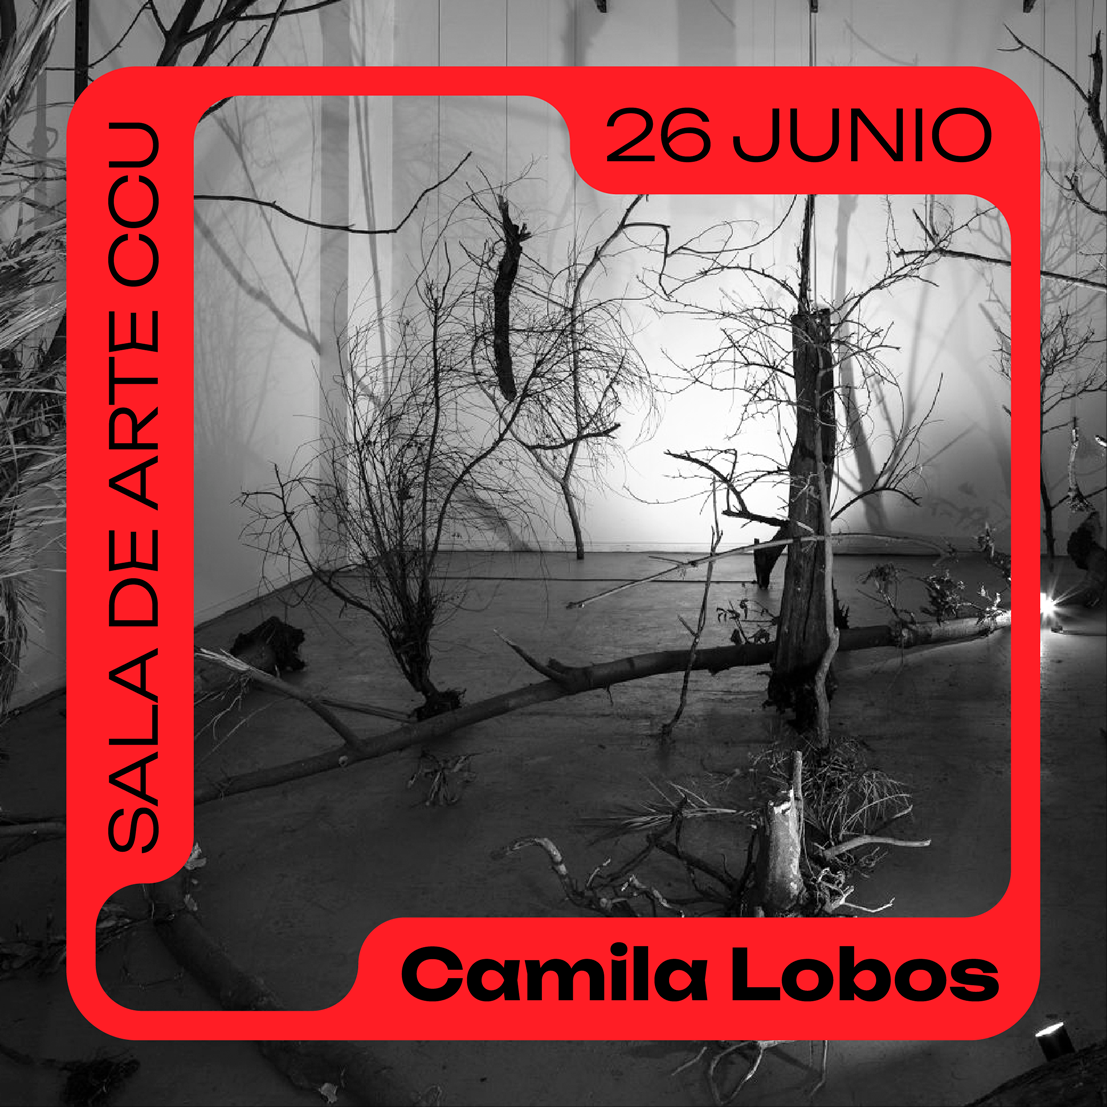
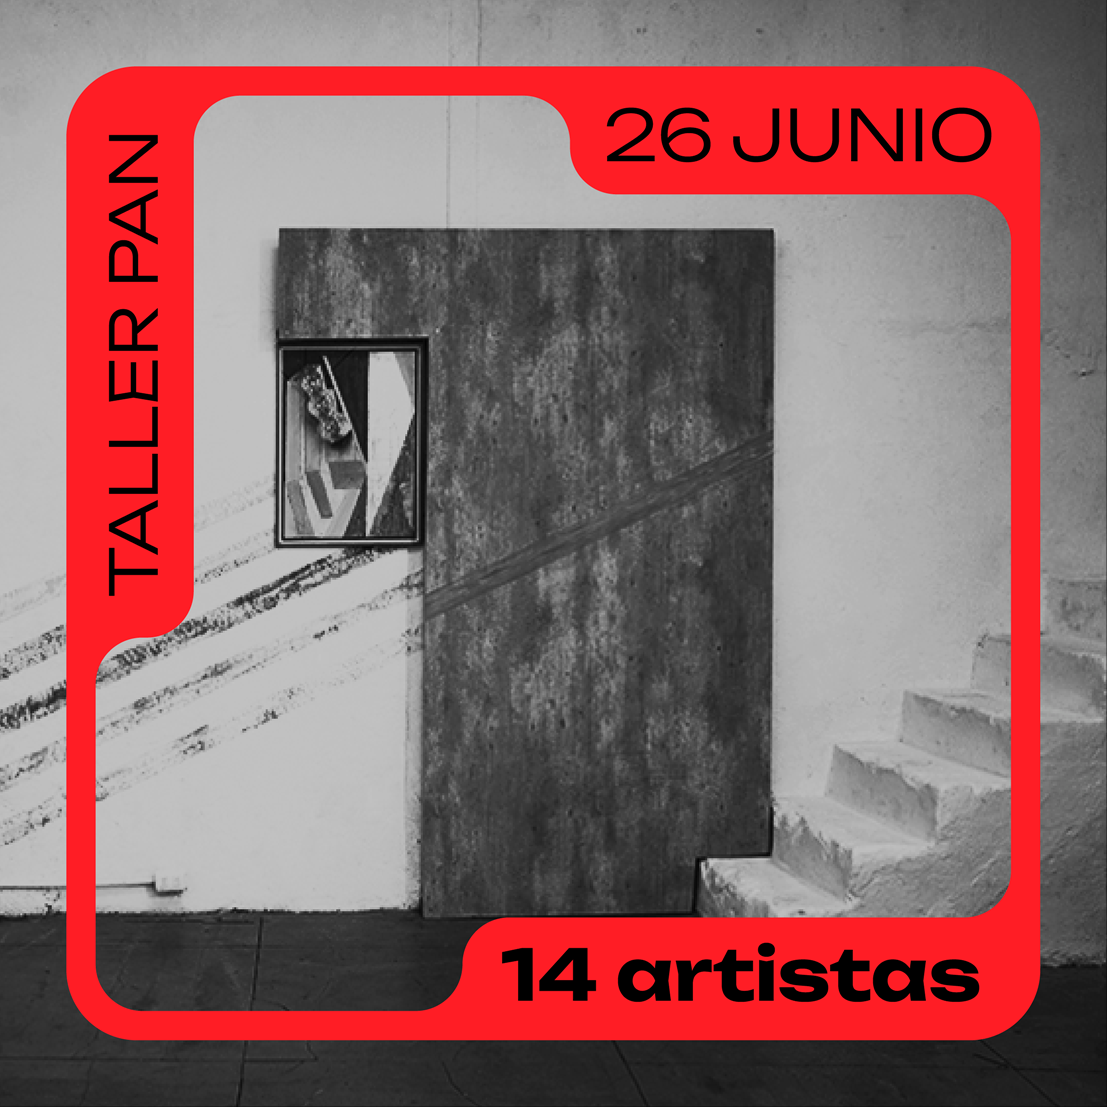
cambio programacion

diff --git a/src/componentes/Section3.js b/src/componentes/Section3.js
@@ -121,14 +121,14 @@ function Section({ minHeight }) {
           <div className="text-center w-full h-full px-3 sd:px-7 md:px-7 lg:px-7  py-3 sd:py-7 md:py-7 lg:py-7 xl:py-7">
               <div>
               <h1 className="text-normal sd:text-3xl md:text-3xl lg:text-3xl xl:text-3xl text-left font-bold font-unbounded ">
-              CAMILA LOBOS EN SALA DE ARTE CCU</h1>
+              Taller Pan (Ex taller BLOC)</h1>
               <h2 className="text-normal sd:text-3xl md:text-3xl lg:text-3xl xl:text-3xl text-left font-medium font-unbounded ">
-              Las Condes.</h2>
+              Providencia.</h2>
               <br className="xs:block sd:block sm:hidden md:hidden lg:hidden "/>
               <p className="text-xs mt-0 sd:text-xl md:text-xl  lg:textxl xl:text-xl text-left font-libre-franklin sd:mt-6 md:mt-4 lg:mt-6 xl:mt-9">
-              <b>Instalación inmersiva.</b><br/>
-              Sumérgete en un bosque flotante de árboles y raíces que te llevará a despertar reflexiones sobre los lugares en los que vivimos. Finalizaremos con un set de música conectado al trabajo de Camila.
-                </p>
+              <b>Artistas de renombre.</b><br/>
+              Taller Pan, ubicado en una ex fábrica de pan, cumple 15 años como taller independiente. Lo integran Tomás Rivas, Rodrigo Canala, Rodrigo Galecio, Mono Lira, Matías Santa María, Iván Melnick, Ximena Silva-Riesco, Agustín Encina, Fernanda López, Rodrigo Araya, Paula Gastelo, Pato Kind, Rodrigo Lobos y Cristián Elizalde. Además, cuenta con la Galería Tiki Taka, donde exponen artistas nacionales e internacionales. Cerraremos la noche con un dj set de Dj Haití.
+              </p>
               </div>
               <a href="#tickets"><button className="absolute bottom-0 left-0 mx-7 my-7 flex items-center justify-center px-6 py-1 text-black text-normal sd:text-normal md:text-2xl lg:text-2xl xl:text-2xl font-bold rounded-full border-2 border-black mt-4 font-unbounded hover:text-white hover:border-white">
               Participa &nbsp;&nbsp;&nbsp;&nbsp;&nbsp;
